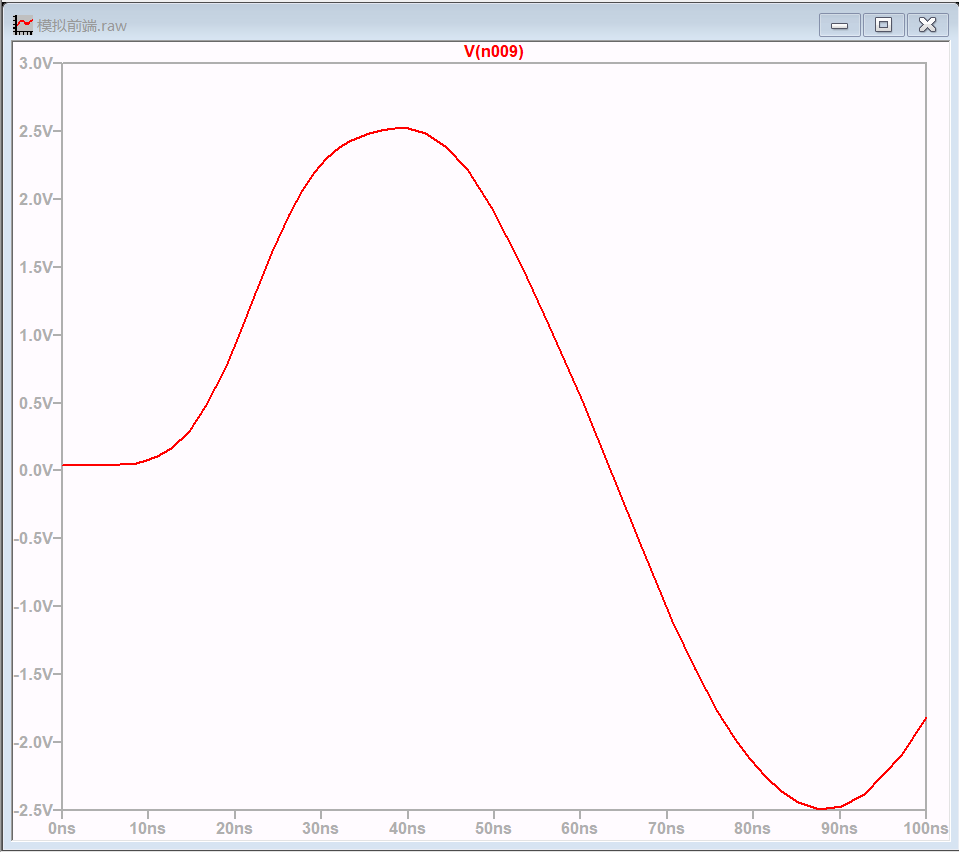
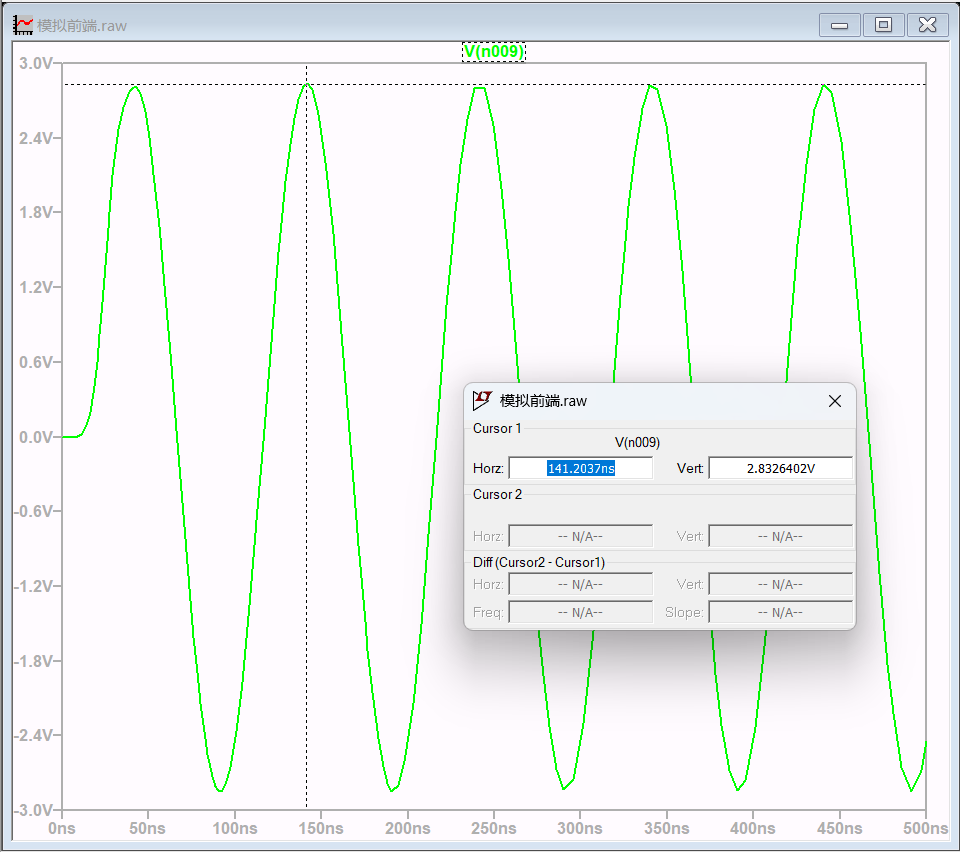
feat：差分转单端电路重新设计

diff --git a/docs/硬件设计文档/硬件设计文档(模拟板).md b/docs/硬件设计文档/硬件设计文档(模拟板).md
@@ -177,43 +177,47 @@ To view a copy of this license, visit http://creativecommons.org/licenses/by-sa/
   | 运放 | NE5532 | 双运放，低噪声，适合共模反馈 | 成本低，性能满足共模反馈需求 |
 
 #### 2.3.2 差分转单端
-- **原理图截图**：![差分转单端原理图](/docs/pic/差分转单端原理图.png)
+- **原理图截图**：<font color="red">待补充</font>
 - **功能描述**：
   将滤波器输出的差分信号转换为单端信号，满足后续衰减网络和输出放大级的输入要求。
 - **关键器件**：
-  | 器件 | 型号 | 特性 | 选型理由 |
-  |------|-----|------|----------|
-  | 运放 | OPA695 | 电流反馈运放，低噪声，高带宽 | 满足带宽和噪声要求，适合差分转单端 |
+<font color="red">运放型号待补充</font>
 - **设计计算**：
   通过仿真可知，滤波器插入损耗约为 6.30dB（约 0.485V/V），后级合路器增益约 0.44V/V （约 -7.13dB），但后续环节可能有额外损耗，故本模块放大倍数设计为 6V/V （约 15.56dB），以预留软件调节的空间。
-1. 增益计算：</br>
-  ![OPA695反馈电阻-增益关系](/docs/pic/OPA695反馈电阻-增益关系.png)  </br>
-  由上图可知，当噪声增益为 6V/V 时，反馈电阻 $R_f$应为 442Ω，则 $R_G = \frac{442}{6} \approx 73.2Ω$
 1. 阻抗匹配计算：
 ![差分转单端示意图](/docs/pic/差分转单端示意图.png)
-  滤波器负载阻抗设计为 50Ω，则差分转单端电路输入阻抗应为 50Ω
+  滤波器负载阻抗设计为 50Ω，则差分转单端电路输入阻抗应为 50Ω，增益 $G = 6 V/V$，则：
+  $$\frac{R3}{R5} = \frac{R4}{R6} = \frac{1}{G} = \frac{1}{6}$$
+  即：
+  $$ R5 = R6 = 6 \times R3 = 6 \times R4$$
   
-    1. 同相输入端：
-    由 
-    $\frac{1}{50} = \frac{1}{R_1} + \frac{1}{R_3 + R_5} = \frac{1}{R_1} + \frac{1}{515.2}$
-    可知：
-    $R_1 = \frac{1}{\frac{1}{50} - \frac{1}{515.2}} \approx 54.2 \Omega$
     1. 反相输入端： 
-    因为：
-    $V_OPA+ = V_{IN+} \times \frac{R3}{R3 + R5} = V_{IN+} \times \frac{73.2}{515.2} \approx V_{IN+} \times 0.142$
-    又：在纯差模下，$V_{IN+} = -V_{IN-}$，则：
-    $V_{R4} = V_{IN-} - V_{OPA+} = V_{IN-} - V_{IN+} \times 0.142 = V_{IN-} \times (1 + 0.142) = V_{IN-} \times 1.142$
+    因为 $R5 = 6 \times R3$，则：
+    $$V_{AMP+} = V_{IN+} \times \frac{R5}{R3 + R5} = \frac{6}{7}V_{IN+}$$
+    又：在纯差模下，$V_{IN+} = -V_{IN-}$，则 R4 两端的电压为：
+    $$V_{R4} = V_{IN-} - V_{AMP+} = -\frac{13}{7}V_{IN+}$$
     则：通过R4的电流为：
-    $I_{R4} = \frac{V_{R4}}{R_4} = \frac{V_{IN-} \times 1.142}{73.2 \Omega}$
+    $$I_{R4} = \frac{V_{R4}}{R4} = -\frac{13V_{IN+}}{7R4}$$
     即可算出反相输入端的输入阻抗为：
-    $Z_{IN-} = \frac{V_{IN-}}{I_{R4}} = \frac{V_{IN-}}{V_{IN-} \times 1.142} \times 73.2 \Omega = \frac{73.2 \Omega}{1.142} \approx 64.1 \Omega $
-    则：R2 的值为：
-    $R_2 = \frac{1}{\frac{1}{50} - \frac{1}{64.1}} \approx 226 \Omega$
+    $$Z_{IN-} = \frac{V_{IN-}}{I_{R4}} = \frac{7}{13} \times R4$$
+    令 $Z_{IN-} = 50\Omega$，则：
+    $$R4 = R3 = \frac{13}{7} \times 50\Omega = 92.857 \Omega \approx 93.1 \Omega$$
+    则：
+    $$R5 = R6 = 6 \times R4 = 556.428 \Omega \approx 560 \Omega$$
+
+    > 由于反相输入端刚好匹配 50Ω 阻抗，所以 R2 可省去，当然也可以不用 50Ω 计算以换取更加常见的电阻值，能获得更好的匹配效果，但要考虑多一个电阻带来的噪声和成本是否划算。
+
+    2. 同相输入端：
+    由 
+    $$\frac{1}{50} = \frac{1}{R_1} + \frac{1}{R_3 + R_5}$$
+    可知：
+    $$R_1 = \frac{1}{\frac{1}{50} - \frac{1}{653.1}} \approx 53.6 \Omega$$
+
+
 - **具体设计**：
-  - 增益设计为 6V/V，反馈电阻选用 442Ω，输入电阻选用 73.2Ω，其他电阻根据阻抗匹配计算结果选用。
+  - 增益设计为 6V/V，反馈电阻选用 560Ω，输入电阻选用 93.1Ω，其他电阻根据阻抗匹配计算结果选用。
   - 使用双电源供电，电源输入端添加磁珠和去耦电容，确保电源稳定。
-  - OPA659 为电流反馈运放，对走线寄生电容非常敏感，布局时尽量将反馈电阻和输入电阻靠近运放引脚，走线尽量短且宽，且走线周围/下方铜箔需挖空，以减少寄生电容。
-  - 为了方便走线，通道 1 中运算放大器的输入引脚和 DAC 的的输出引脚**反向连接**，即 OPA695 的同相输入端连接到 DAC 的负输出引脚，反相输入端连接到 DAC 的正输出引脚，输出端连接到衰减网络输入，因此**在软件中需要对通道 1 的数据进行反相处理**。
+  - 为了方便走线，通道 1 中运算放大器的输入引脚和 DAC 的的输出引脚<b><font color="red">反向连接</font></b>，即 OPA695 的同相输入端连接到 DAC 的负输出引脚，反相输入端连接到 DAC 的正输出引脚，输出端连接到衰减网络输入，因此<b><font color="red">在软件中需要对通道 1 的数据进行反相处理</font></b>。
 - **仿真结果**：
   ![差分转单端输出波形](/docs/pic/差分转单端输出波形.png)
 - **保护设计**：

diff --git a/docs/adr/005-diff-to-single-topology-select.md b/docs/adr/005-diff-to-single-topology-select.md
@@ -92,3 +92,4 @@ To view a copy of this license, visit http://creativecommons.org/licenses/by-sa/
 
 ## 相关文档
 - [硬件架构文档](/docs/硬件架构文档.md)
+- [硬件设计文档（模拟板）](/docs/硬件设计文档/硬件设计文档(模拟板).md)
